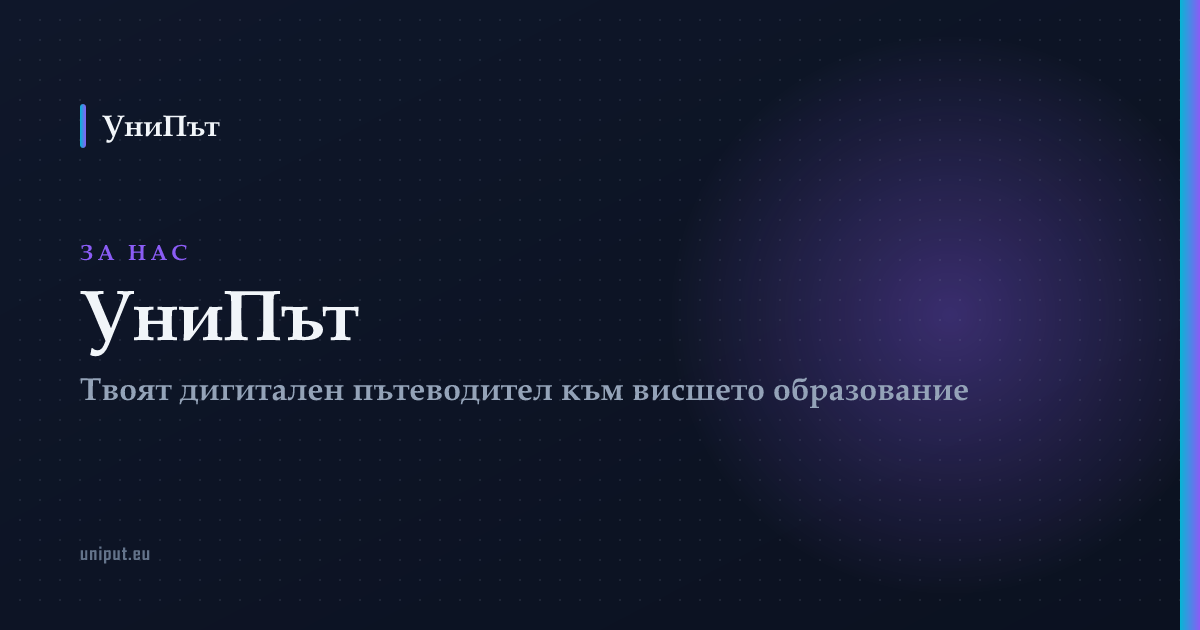
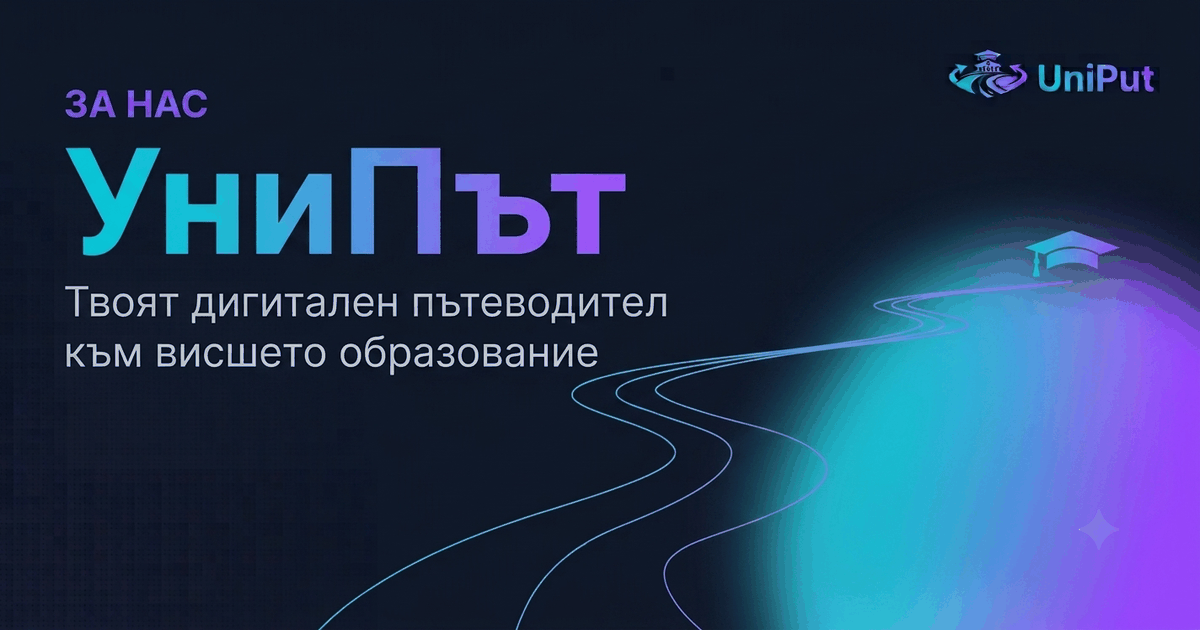
fix(nav): stop AnimatePresence from dropping fast route switches
Route changes сега mount-ват веднага вместо да чакат exit-анимация,
която понякога никога не завършваше при бързи последователни навигации
(URL се сменяше, страницата не се зареждаше). Entry fade-in остава.

feat(content): update 47→51 universities across site + AI-generated OG images

- Всички броячи (Home, Calculator, Universities, prerender, OG generator)
  вече отразяват реалните 51 университета / 845 специалности в базата
- Подменени 6-те OG social-preview изображения с нови AI-генерирани версии;
  оразмерени на стандартните 1200×630 и компресирани ~4× (palette quantize)
- Footer: логото вече носи wordmark-а, махнат дублиращ текстов "УниПът"

diff --git a/src/app/App.jsx b/src/app/App.jsx
@@ -1,6 +1,6 @@
 import { Route, Routes, useLocation } from "react-router";
 import { Suspense, lazy } from "react";
-import { LazyMotion, domAnimation, m, AnimatePresence } from "motion/react";
+import { LazyMotion, domAnimation, m } from "motion/react";
 
 import { AuthProvider } from "@/hooks/AuthContext";
 import ProtectedRoute from "@/routes/ProtectedRoute";
@@ -41,7 +41,6 @@ function PageWrap({ children }) {
         <m.div
             initial={{ opacity: 0, y: 14 }}
             animate={{ opacity: 1, y: 0 }}
-            exit={{ opacity: 0, y: -8 }}
             transition={{ duration: 0.35, ease: [0.16, 1, 0.3, 1] }}
         >
             {children}
@@ -71,8 +70,12 @@ function App() {
                     <Header />
                     <main id="main" role="main">
                         <Suspense fallback={<PageLoader />}>
-                            <AnimatePresence mode="wait">
-                                <Routes location={location} key={location.pathname}>
+                            {/* Без AnimatePresence mode="wait": exit-анимацията чакаше
+                                старата страница да излезе преди новата да се монтира.
+                                При бързо превключване + lazy chunks (Suspense) това
+                                губеше навигации — URL се сменя, страницата не.
+                                key-ът остава: нов mount (и entry анимация) на всеки път. */}
+                            <Routes location={location} key={location.pathname}>
                                     {/* Публични маршрути */}
                                     <Route path="*" element={<PageWrap><NotFound /></PageWrap>} />
                                     <Route path="/" element={<PageWrap><Home /></PageWrap>} />
@@ -129,7 +132,6 @@ function App() {
                                         </PageWrap>
                                     } />
                                 </Routes>
-                            </AnimatePresence>
                         </Suspense>
                     </main>
                     <Footer />

diff --git a/src/components/common/Home.jsx b/src/components/common/Home.jsx
@@ -362,7 +362,7 @@ function HeroSection() {
 
 const STATS = [
     { value: 500, suffix: "+", label: "различни специалности", sub: "в базата данни" },
-    { value: 47,  suffix: "",  label: "университета",  sub: "от цяла България" },
+    { value: 51,  suffix: "",  label: "университета",  sub: "от цяла България" },
     { value: 999,   suffix: "+",  label: "професии ",   sub: "кариерен профил" },
     { value: 100, suffix: "%", label: "безплатно",     sub: "без скрити такси" },
 ];
@@ -449,7 +449,7 @@ const STEPS = [
         num: "02",
         icon: Target,
         title: "Алгоритмичен Подбор",
-        desc: "Нашият алгоритъм сравнява профила ти с над 250 специалности в 47 университета и генерира персонализиран списък.",
+        desc: "Нашият алгоритъм сравнява профила ти с 912 специалности в 51 университета и генерира персонализиран списък.",
     },
     {
         num: "03",
@@ -1016,7 +1016,7 @@ export default function Home() {
         >
             <Seo
                 title="УниПът — Калкулатор за приемен бал и кариерен ориентир за кандидат-студенти"
-                description="Изчисли своя кандидатстудентски бал по МОН формулите, открий подходящи специалности с RIASEC тест и сравни 47 университета — безплатно, на едно място. За 2026 г."
+                description="Изчисли своя кандидатстудентски бал по МОН формулите, открий подходящи специалности с RIASEC тест и сравни 51 университета — безплатно, на едно място. За 2026 г."
                 path="/"
             />
             <JsonLd data={HOME_SCHEMA} />

diff --git a/src/components/Universities/Universities.jsx b/src/components/Universities/Universities.jsx
@@ -705,8 +705,8 @@ export default function UniversitiesPage() {
             onClick={() => setShowSuggestions(false)}
         >
             <Seo
-                title="Висши училища в България — 47 университета, 833 специалности за прием 2026"
-                description="Виж всички 47 висши училища в България и техните 833 специалности. Филтрирай по град, факултет или степен. Изчисли приемния си бал за 2026 г. с точните коефициенти от МОН."
+                title="Висши училища в България — 51 университета, 845 специалности за прием 2026"
+                description="Виж всички 51 висши училища в България и техните 845 специалности. Филтрирай по град, факултет или степен. Изчисли приемния си бал за 2026 г. с точните коефициенти от МОН."
                 path="/universities"
                 image="https://uniput.eu/og/universities.png"
             />

diff --git a/src/components/Calculator/Calculator.jsx b/src/components/Calculator/Calculator.jsx
@@ -475,7 +475,7 @@ export default function CalculatorPage() {
         <div style={{ minHeight: "100vh", background: "var(--brand-bg)", paddingTop: "7rem", paddingBottom: "5rem" }}>
             <Seo
                 title="Кандидатстудентски бал калкулатор — Балообразуване по МОН формули"
-                description="Изчисли своя кандидатстудентски бал за 2026 г. Калкулаторът прилага точните коефициенти и формули за балообразуване от МОН — за 47 университета и 833 специалности. Безплатно, без регистрация."
+                description="Изчисли своя кандидатстудентски бал за 2026 г. Калкулаторът прилага точните коефициенти и формули за балообразуване от МОН — за 51 университета и 845 специалности. Безплатно, без регистрация."
                 path="/calculator"
                 image="https://uniput.eu/og/calculator.png"
             />

diff --git a/src/components/common/Footer.jsx b/src/components/common/Footer.jsx
@@ -143,7 +143,7 @@ const Footer = () => {
                             </div> */} {/* Brand */}
                     <Link to="/" style={{ display: "flex", alignItems: "center", textDecoration: "none" }}>
                         <img
-                            src="/transparent logo .png"
+                            src="/logo-wordmark.png"
                             alt="УниПът лого"
                             style={{ height: "70px", width: "auto", objectFit: "contain", borderRadius: "0.5rem"  }}
                         />
@@ -158,7 +158,7 @@ const Footer = () => {
                                     WebkitTextFillColor: "transparent",
                                 }}
                             >
-                                УниПът
+                                
                             </span>
                         </div>
                         <p style={{ fontSize: "13px", color: "var(--brand-muted)", lineHeight: 1.6, margin: 0 }}>
